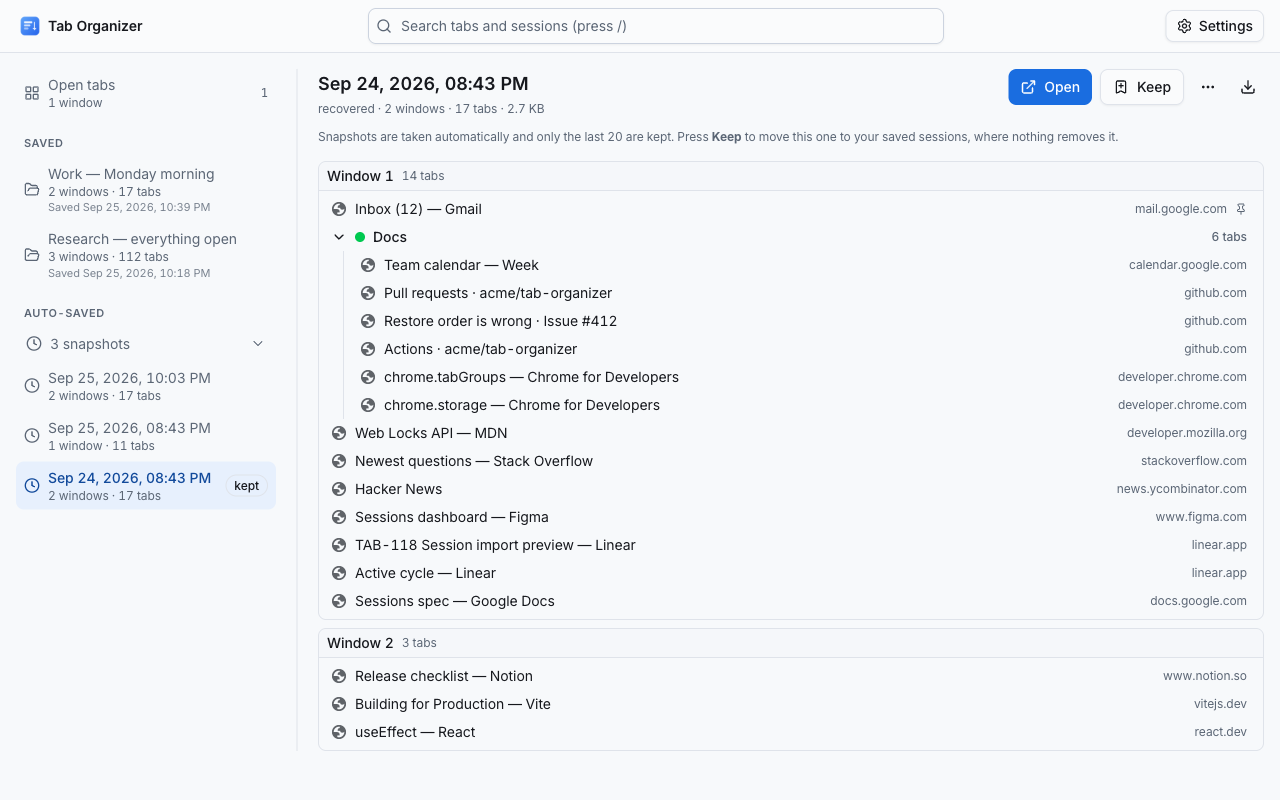
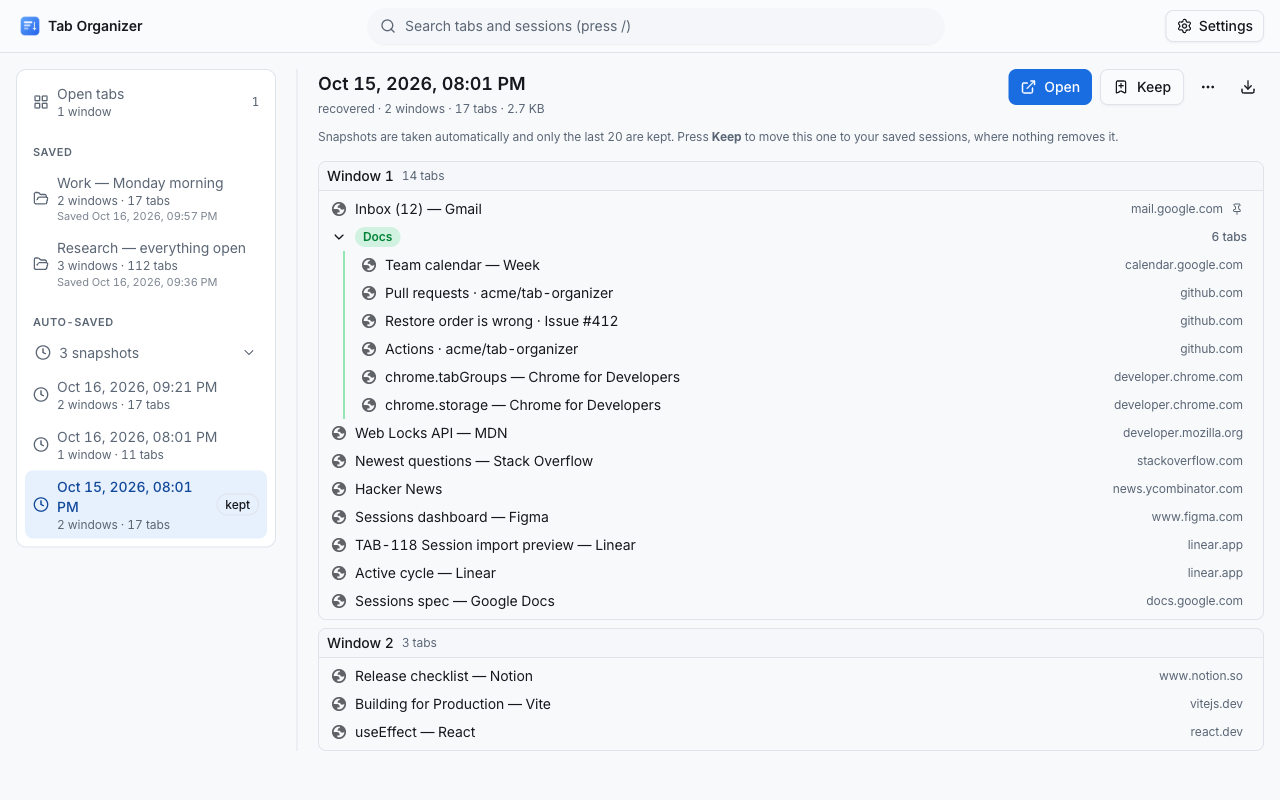
chore: regenerate the store screenshots; the asset script finds sidebar entries as links

diff --git a/scripts/prepare-registration.ts b/scripts/prepare-registration.ts
@@ -427,9 +427,12 @@ class Preparation {
       }
     };
 
-    /** The sidebar entry for a session; clicking it puts that session in the main pane. */
+    /**
+     * The sidebar entry for a session; clicking it puts that session in the main pane. The rows are
+     * links since they got addresses (SidebarNav's NavItem), not buttons.
+     */
     const sidebarEntry = (name: string): Locator =>
-      page.getByRole('navigation', { name: 'Sessions' }).locator('li button').filter({
+      page.getByRole('navigation', { name: 'Sessions' }).locator('li a').filter({
         hasText: name,
       });
 
@@ -541,10 +544,7 @@ class Preparation {
         await toggle.first().click();
         await page.waitForTimeout(300);
       }
-      const snapshot = page
-        .getByRole('navigation', { name: 'Sessions' })
-        .locator('li button')
-        .last();
+      const snapshot = page.getByRole('navigation', { name: 'Sessions' }).locator('li a').last();
       if (!(await Preparation.isVisible(snapshot))) {
         return 'no snapshot to show';
       }

diff --git a/screenshots/after-sort.html b/screenshots/after-sort.html
@@ -160,12 +160,12 @@
     </div>
 
     <div class="tab " style="border-top: 3px solid #81c995">
-      <img src="https://www.youtube.com/s/desktop/af0a3c1e/img/favicon.ico" width="16" height="16" onerror="this.style.display='none'"/>
+      <img src="https://www.google.com/s2/favicons?domain=www.youtube.com&sz=32" width="16" height="16" onerror="this.style.display='none'"/>
       <span class="title">YouTube</span>
     </div>
 
     <div class="tab " style="border-top: 3px solid #81c995">
-      <img src="https://www.youtube.com/s/desktop/af0a3c1e/img/favicon.ico" width="16" height="16" onerror="this.style.display='none'"/>
+      <img src="https://www.youtube.com/s/desktop/4427e880/img/favicon.ico" width="16" height="16" onerror="this.style.display='none'"/>
       <span class="title">Home - YouTube</span>
     </div></div>
       <div class="content">

diff --git a/screenshots/before-sort.html b/screenshots/before-sort.html
@@ -115,12 +115,12 @@
     </div>
 
     <div class="tab " >
-      <img src="https://www.youtube.com/s/desktop/af0a3c1e/img/favicon.ico" width="16" height="16" onerror="this.style.display='none'"/>
+      <img src="https://www.google.com/s2/favicons?domain=www.youtube.com&sz=32" width="16" height="16" onerror="this.style.display='none'"/>
       <span class="title">YouTube</span>
     </div>
 
     <div class="tab " >
-      <img src="https://www.youtube.com/s/desktop/af0a3c1e/img/favicon.ico" width="16" height="16" onerror="this.style.display='none'"/>
+      <img src="https://www.youtube.com/s/desktop/4427e880/img/favicon.ico" width="16" height="16" onerror="this.style.display='none'"/>
       <span class="title">Home - YouTube</span>
     </div>
 
